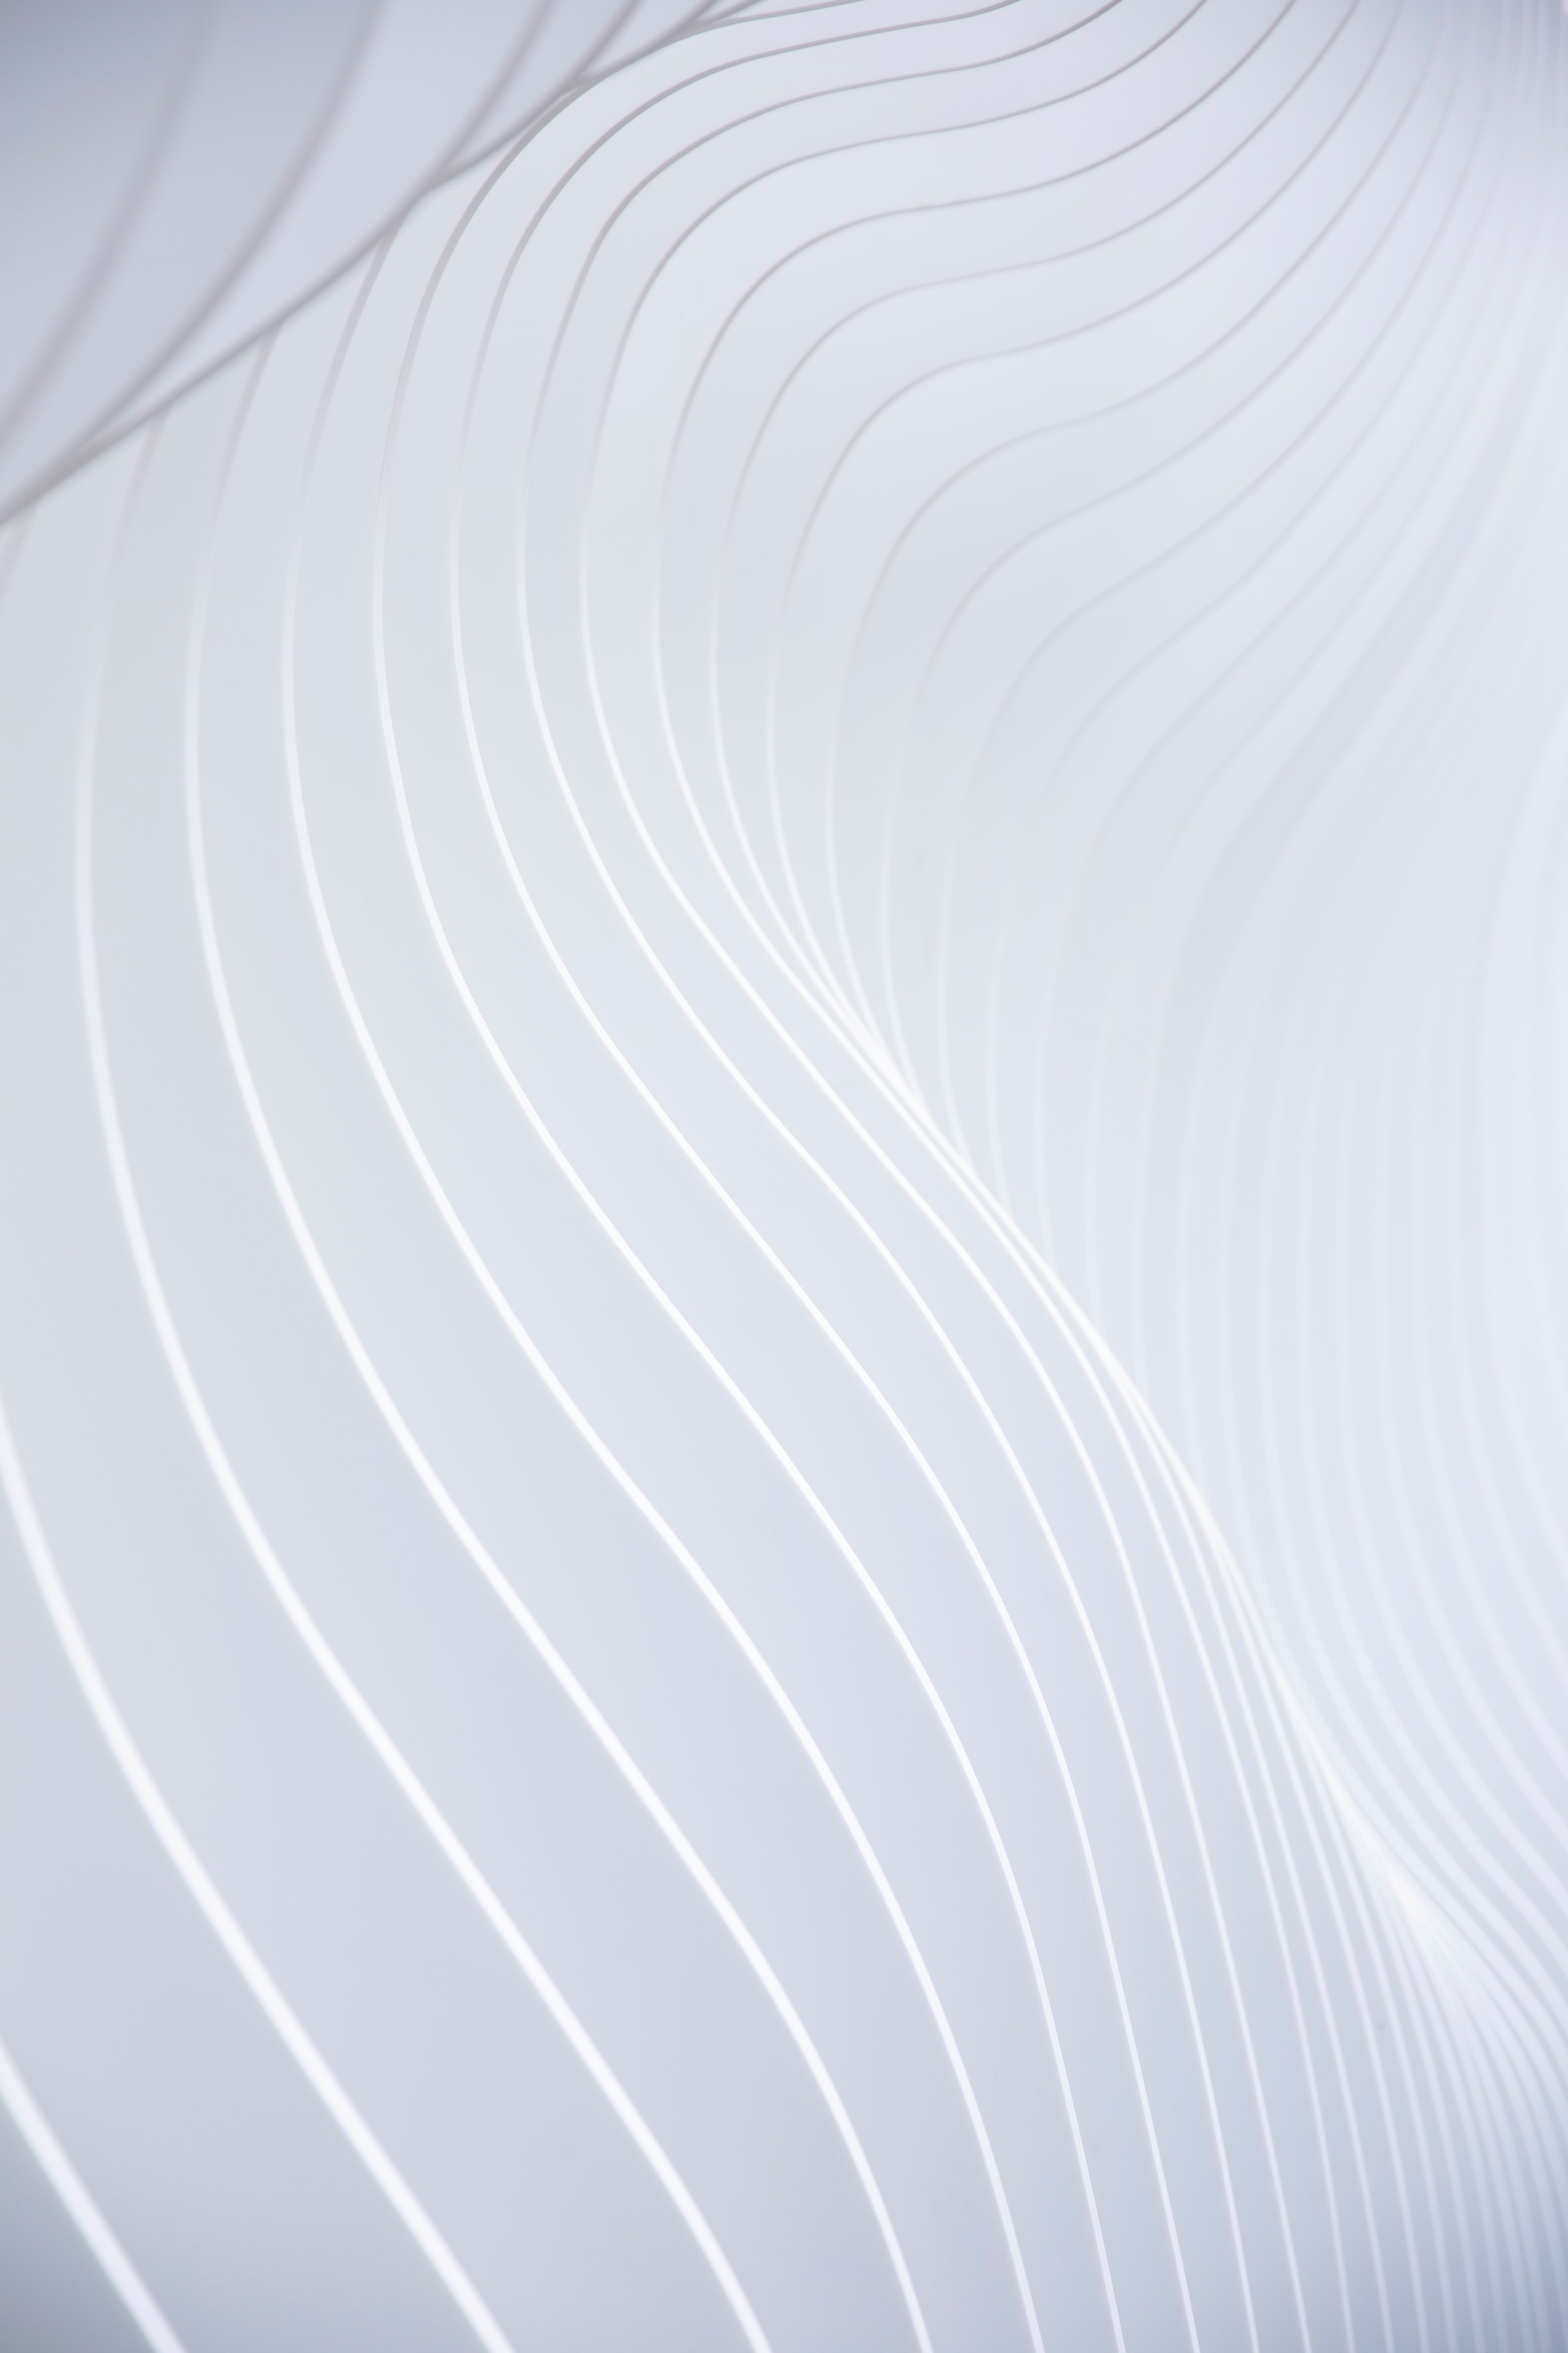
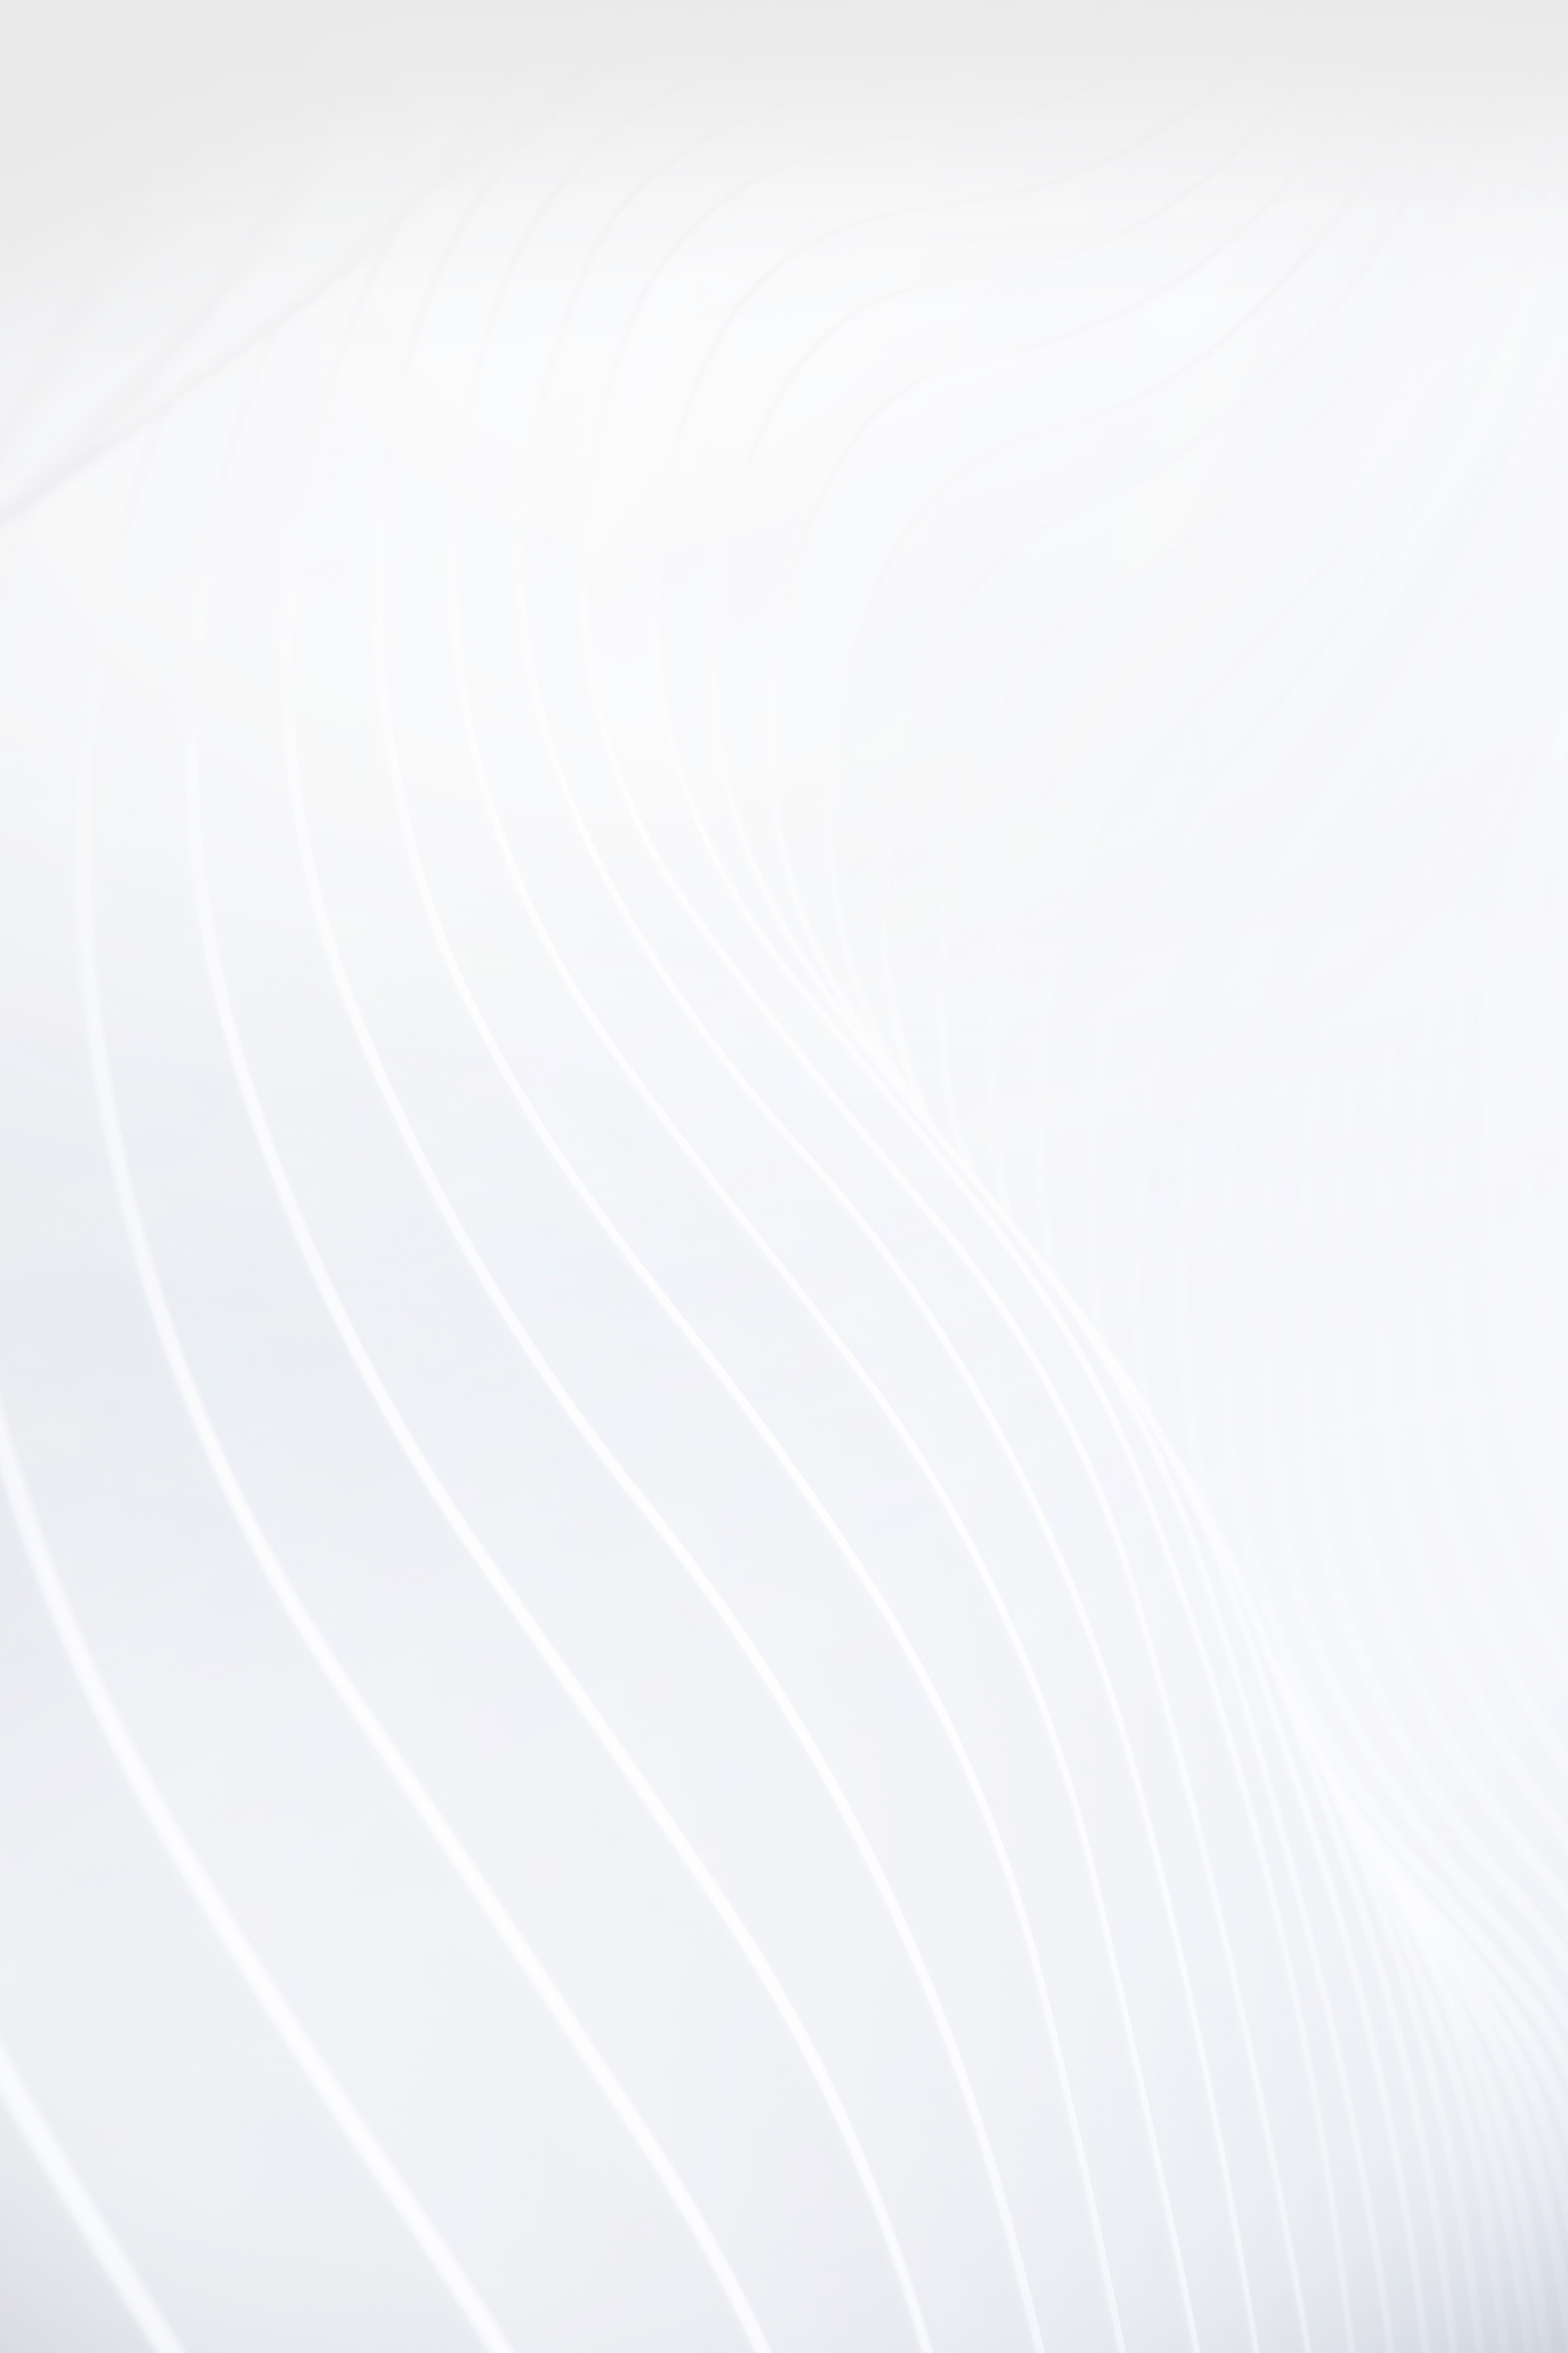
added new picture in about section - updated picture size

diff --git a/pages/index.js b/pages/index.js
@@ -192,7 +192,11 @@ export default function Home() {
 						</div>
 					</div>
 					<div className="flex justify-center items-center">
-						<img src="/img/home/image1.png" alt="" className="w-[70%]" />
+						<img
+							src="/img/home/sculpture_boat.png"
+							alt=""
+							className="md:w-[70%] w-[100%] "
+						/>
 					</div>
 				</section>
 				<section className="bg-mid-background bg-cover text-[#333333] py-[90px]  px-[20px] md:px-[90px] flex flex-col md:flex-row items-center">
